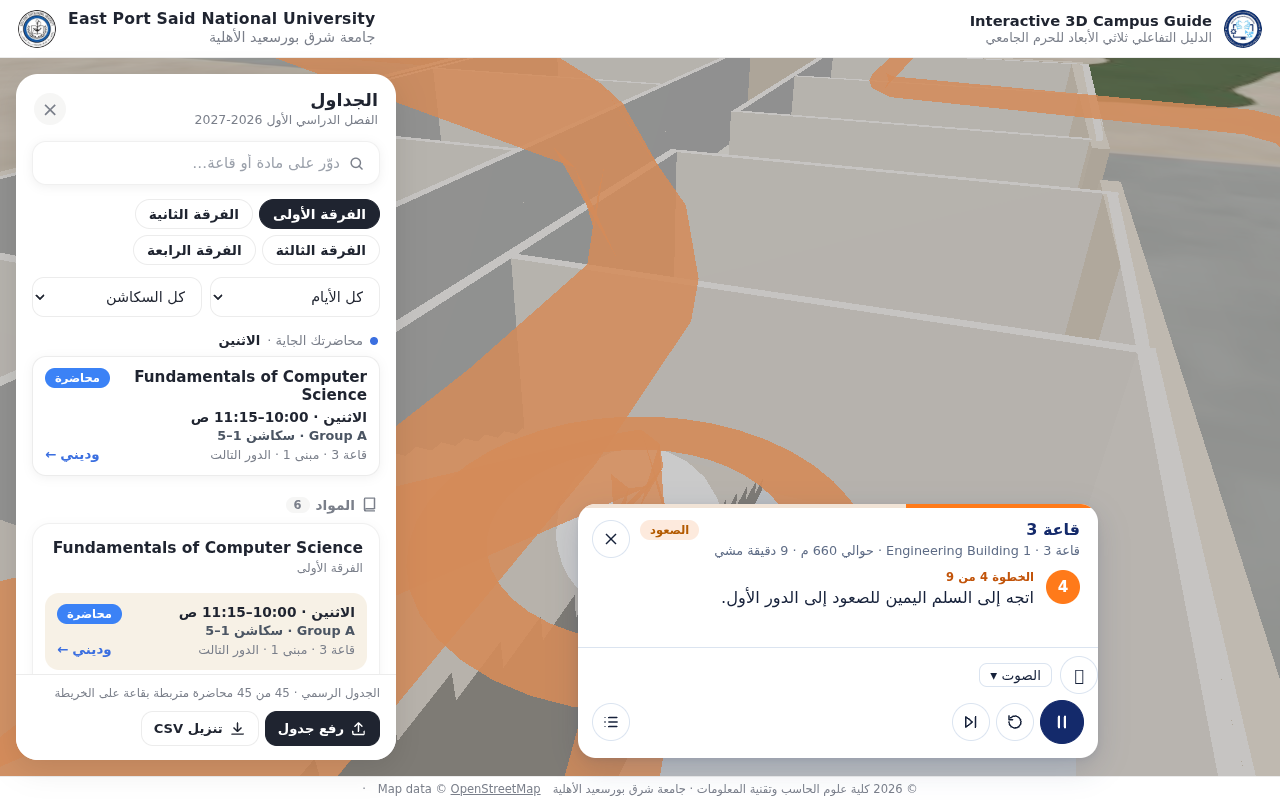
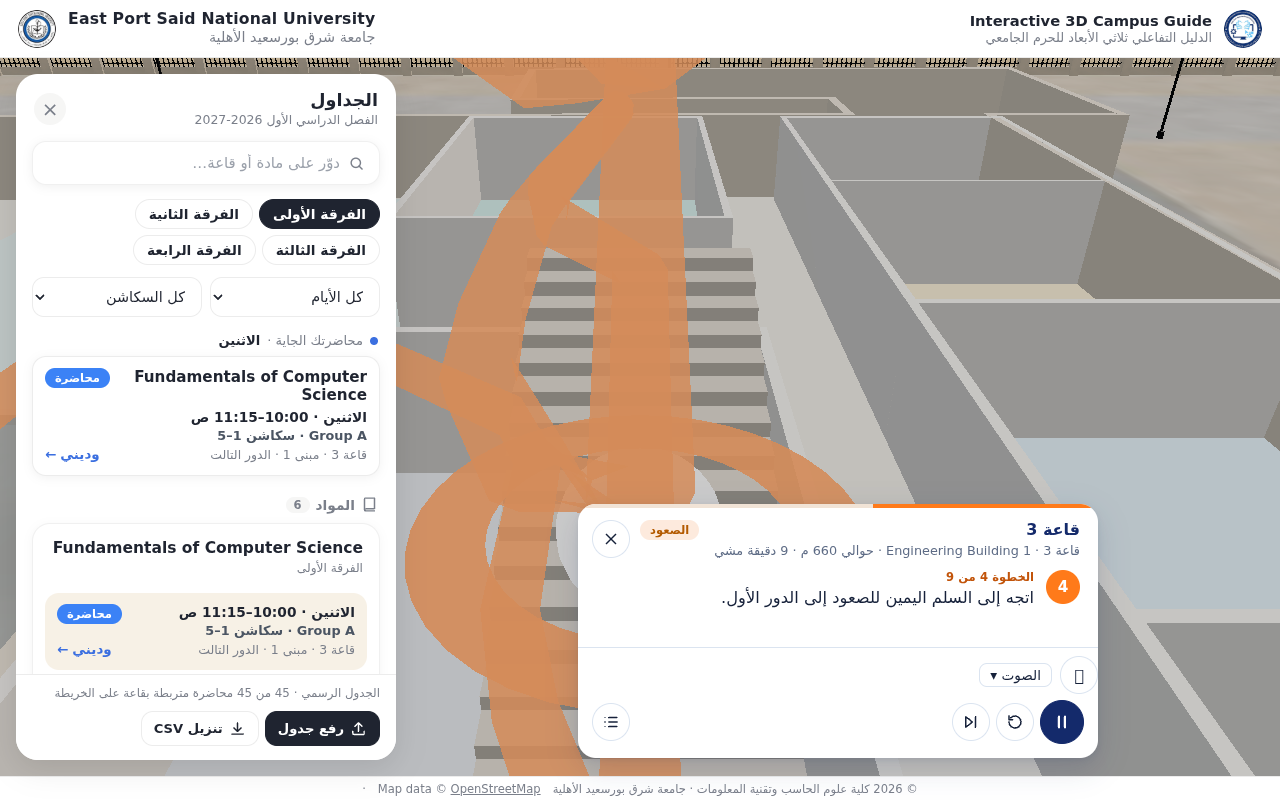
docs: navigation, voice guidance and QA results; deliver QA artifacts

diff --git a/README.md b/README.md
@@ -37,6 +37,39 @@ The viewer opens with an Arabic timetable panel (`viewer/js/schedule.js`). Stude
 
 Website integration options (iframe or native page) and server settings are in [`deliverables/README.md`](deliverables/README.md#website-integration).
 
+## Realistic navigation & Arabic voice guidance (وديني)
+
+Selecting **وديني** in the timetable panel starts a guided walk to the room through the real layout:
+
+- **Progressive staircase traversal** — the walker climbs every flight step by step along the drawn treads
+  (~22 cm per step), floor by floor (G → 1 → 2 → 3), with a landing on every intermediate floor.
+  No teleporting: floor transitions are confirmed only at the end of each flight.
+- **Navigation state machine** — the tour runs as explicit states
+  (`IDLE → ROUTE_PLANNING → WALKING → ENTERING_DOOR → CORRIDOR_NAVIGATION → APPROACHING_STAIRS → CLIMBING → FLOOR_LANDING → ARRIVED`),
+  shown live on the tour badge; pause, resume, replay and cancel are available at any time.
+- **Arabic voice guidance** — instructions are spoken in Arabic (Modern Standard) in sync with the actual
+  navigation progress: each step is announced when it becomes active, floors only after the transition is
+  confirmed, and arrival at the end. On-screen captions mirror every spoken instruction.
+- **Voice selection** — the picker (زر «الصوت» على بطاقة الرحلة) lists only voices that actually exist on
+  your device, Arabic voices first, with a preview per voice. The choice and the mute state are remembered
+  per browser. If no speech voices are installed, the viewer says so and keeps guiding visually.
+- The narration uses the browser's built-in speech engine (Web Speech API): no cloud service, no keys, works offline.
+
+The stair geometry walked by the guide is generated by the same function that draws the treads
+(`stairProfile` in `js/interior.js`), so the route always follows the model exactly.
+
+### Automated navigation QA
+
+`pipeline/qa_navigation.py` (Playwright + headless Chromium / SwiftShader) verifies: route planning to a
+third-floor room, three separate climbing flights with landings, progressive floor transitions
+(`-1 → 0 → 1 → 2 → 3`), step-level stair deltas (max 0.225 m), the full state sequence, voice-module
+safety and mute, pause/resume/cancel, and edge cases (unknown destination, ground-floor destination).
+Latest run: **19/19 checks passed** (`deliverables/qa/nav/qa_nav_results.json`, screenshots alongside).
+
+Known limitations: the indoor map is indicative (see the notes in `data/`), and spoken Arabic requires
+Arabic voices installed on the device (Windows/Android/ChromeOS ship them; otherwise the visual guidance
+still works).
+
 ## Repository layout
 
 | Path | Contents |
